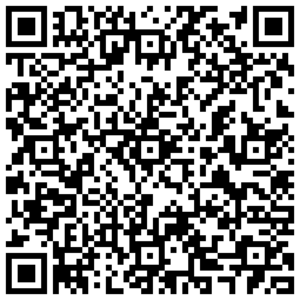
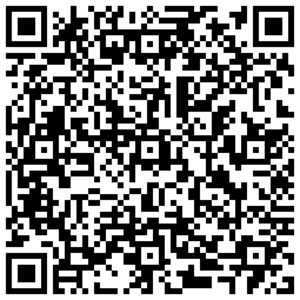
Update free configs - 2025-03-26

diff --git a/README.md b/README.md
@@ -1,6 +1,6 @@
 # 文档下方有很多可直接导入使用的高速节点/二维码订阅
 
-<p align='center'><strong>2025-03-25 12点准时更新每日免费节点，更多机场VPN优惠信息：<a href="https://vpn.tg10000.com">vpn.tg10000.com</a></strong></p>
+<p align='center'><strong>2025-03-26 12点准时更新每日免费节点，更多机场VPN优惠信息：<a href="https://vpn.tg10000.com">vpn.tg10000.com</a></strong></p>
 <p align='center'><strong>Telegram群:<a href="https://t.me/freevpn">@freevpntg</a></strong></p>
 
 
@@ -60,120 +60,120 @@
 
 <p align='center'><img src='img/1.png' alt='QR Code' width='300'></p>
 
-<p align='center'><code>ss://Y2hhY2hhMjAtaWV0Zi1wb2x5MTMwNTplZmY4NTcxYy05ZjJhLTQ4NjEtOWZlMS0yNWJkZDYxYjM0OTc=@free.2weradf.xyz:36141#0%7C%F0%9F%87%AD%F0%9F%87%B0%20%E9%A6%99%E6%B8%AF%2001%20%7C%201x%20HK</code></p>
+<p align='center'><code>ss://Y2hhY2hhMjAtaWV0Zi1wb2x5MTMwNTo3ZmFjMjE5YS1mZDNiLTRhMDgtYWFlMC04NjFiMDQyOTJhZjM=@free.2apzhfa.xyz:31141#0%7C%F0%9F%87%AD%F0%9F%87%B0%E9%A6%99%E6%B8%AF%2001%20%7C%201x%20HK</code></p>
 
 <p align='center'><img src='img/2.png' alt='QR Code' width='300'></p>
 
-<p align='center'><code>ss://Y2hhY2hhMjAtaWV0Zi1wb2x5MTMwNTplZmY4NTcxYy05ZjJhLTQ4NjEtOWZlMS0yNWJkZDYxYjM0OTc=@free.2weradf.xyz:36143#0%7C%F0%9F%87%AD%F0%9F%87%B0%20%E9%A6%99%E6%B8%AF%2002%20%7C%201x%20HK</code></p>
+<p align='center'><code>ss://Y2hhY2hhMjAtaWV0Zi1wb2x5MTMwNTo3ZmFjMjE5YS1mZDNiLTRhMDgtYWFlMC04NjFiMDQyOTJhZjM=@free.2apzhfa.xyz:31143#0%7C%F0%9F%87%AD%F0%9F%87%B0%E9%A6%99%E6%B8%AF%2002%20%7C%201x%20HK</code></p>
 
 <p align='center'><img src='img/3.png' alt='QR Code' width='300'></p>
 
-<p align='center'><code>ss://Y2hhY2hhMjAtaWV0Zi1wb2x5MTMwNTplZmY4NTcxYy05ZjJhLTQ4NjEtOWZlMS0yNWJkZDYxYjM0OTc=@free.2weradf.xyz:36145#0%7C%F0%9F%87%AD%F0%9F%87%B0%20%E9%A6%99%E6%B8%AF%E4%BD%8F%E5%AE%85IP%2003%20%7C%201x%20HK</code></p>
+<p align='center'><code>ss://Y2hhY2hhMjAtaWV0Zi1wb2x5MTMwNTo3ZmFjMjE5YS1mZDNiLTRhMDgtYWFlMC04NjFiMDQyOTJhZjM=@free.2apzhfa.xyz:31145#0%7C%F0%9F%87%AD%F0%9F%87%B0%E9%A6%99%E6%B8%AF%E5%AE%B6%E5%AE%BD%2003%20%7C%201x%20HK</code></p>
 
 <p align='center'><img src='img/4.png' alt='QR Code' width='300'></p>
 
-<p align='center'><code>ss://Y2hhY2hhMjAtaWV0Zi1wb2x5MTMwNTplZmY4NTcxYy05ZjJhLTQ4NjEtOWZlMS0yNWJkZDYxYjM0OTc=@free.2weradf.xyz:36241#0%7C%F0%9F%87%B9%F0%9F%87%BC%20%E5%8F%B0%E6%B9%BE%2001%20%7C%201x%20TW</code></p>
+<p align='center'><code>ss://Y2hhY2hhMjAtaWV0Zi1wb2x5MTMwNTo3ZmFjMjE5YS1mZDNiLTRhMDgtYWFlMC04NjFiMDQyOTJhZjM=@free.2apzhfa.xyz:31241#0%7C%F0%9F%87%B9%F0%9F%87%BC%E5%8F%B0%E6%B9%BE%2001%20%7C%201x%20TW</code></p>
 
 <p align='center'><img src='img/5.png' alt='QR Code' width='300'></p>
 
-<p align='center'><code>ss://Y2hhY2hhMjAtaWV0Zi1wb2x5MTMwNTplZmY4NTcxYy05ZjJhLTQ4NjEtOWZlMS0yNWJkZDYxYjM0OTc=@free.2weradf.xyz:36243#0%7C%F0%9F%87%B9%F0%9F%87%BC%20%E5%8F%B0%E6%B9%BE%2002%20%7C%201x%20TW</code></p>
+<p align='center'><code>ss://Y2hhY2hhMjAtaWV0Zi1wb2x5MTMwNTo3ZmFjMjE5YS1mZDNiLTRhMDgtYWFlMC04NjFiMDQyOTJhZjM=@free.2apzhfa.xyz:31243#0%7C%F0%9F%87%B9%F0%9F%87%BC%E5%8F%B0%E6%B9%BE%2002%20%7C%201x%20TW</code></p>
 
 <p align='center'><img src='img/6.png' alt='QR Code' width='300'></p>
 
-<p align='center'><code>ss://Y2hhY2hhMjAtaWV0Zi1wb2x5MTMwNTplZmY4NTcxYy05ZjJhLTQ4NjEtOWZlMS0yNWJkZDYxYjM0OTc=@free.2weradf.xyz:36245#0%7C%F0%9F%87%B9%F0%9F%87%BC%20%E5%8F%B0%E6%B9%BE%2003%20%7C%201x%20TW</code></p>
+<p align='center'><code>ss://Y2hhY2hhMjAtaWV0Zi1wb2x5MTMwNTo3ZmFjMjE5YS1mZDNiLTRhMDgtYWFlMC04NjFiMDQyOTJhZjM=@free.2apzhfa.xyz:31245#0%7C%F0%9F%87%B9%F0%9F%87%BC%E5%8F%B0%E6%B9%BE%2003%20%7C%201x%20TW</code></p>
 
 <p align='center'><img src='img/7.png' alt='QR Code' width='300'></p>
 
-<p align='center'><code>ss://Y2hhY2hhMjAtaWV0Zi1wb2x5MTMwNTplZmY4NTcxYy05ZjJhLTQ4NjEtOWZlMS0yNWJkZDYxYjM0OTc=@free.2weradf.xyz:36111#0%7C%F0%9F%87%AF%F0%9F%87%B5%20%E6%97%A5%E6%9C%AC%2001%20%7C%201x%20JP</code></p>
+<p align='center'><code>ss://Y2hhY2hhMjAtaWV0Zi1wb2x5MTMwNTo3ZmFjMjE5YS1mZDNiLTRhMDgtYWFlMC04NjFiMDQyOTJhZjM=@free.2apzhfa.xyz:31111#0%7C%F0%9F%87%AF%F0%9F%87%B5%E6%97%A5%E6%9C%AC%2001%20%7C%201x%20JP</code></p>
 
 <p align='center'><img src='img/8.png' alt='QR Code' width='300'></p>
 
-<p align='center'><code>ss://Y2hhY2hhMjAtaWV0Zi1wb2x5MTMwNTplZmY4NTcxYy05ZjJhLTQ4NjEtOWZlMS0yNWJkZDYxYjM0OTc=@free.2weradf.xyz:36113#0%7C%F0%9F%87%AF%F0%9F%87%B5%20%E6%97%A5%E6%9C%AC%2002%20%7C%201x%20JP</code></p>
+<p align='center'><code>ss://Y2hhY2hhMjAtaWV0Zi1wb2x5MTMwNTo3ZmFjMjE5YS1mZDNiLTRhMDgtYWFlMC04NjFiMDQyOTJhZjM=@free.2apzhfa.xyz:31113#0%7C%F0%9F%87%AF%F0%9F%87%B5%E6%97%A5%E6%9C%AC%2002%20%7C%201x%20JP</code></p>
 
 <p align='center'><img src='img/9.png' alt='QR Code' width='300'></p>
 
-<p align='center'><code>ss://Y2hhY2hhMjAtaWV0Zi1wb2x5MTMwNTplZmY4NTcxYy05ZjJhLTQ4NjEtOWZlMS0yNWJkZDYxYjM0OTc=@free.2weradf.xyz:36115#0%7C%F0%9F%87%AF%F0%9F%87%B5%20%E6%97%A5%E6%9C%AC%2003%20%7C%201x%20JP</code></p>
+<p align='center'><code>ss://Y2hhY2hhMjAtaWV0Zi1wb2x5MTMwNTo3ZmFjMjE5YS1mZDNiLTRhMDgtYWFlMC04NjFiMDQyOTJhZjM=@free.2apzhfa.xyz:31115#0%7C%F0%9F%87%AF%F0%9F%87%B5%E6%97%A5%E6%9C%AC%2003%20%7C%201x%20JP</code></p>
 
 <p align='center'><img src='img/10.png' alt='QR Code' width='300'></p>
 
-<p align='center'><code>ss://Y2hhY2hhMjAtaWV0Zi1wb2x5MTMwNTplZmY4NTcxYy05ZjJhLTQ4NjEtOWZlMS0yNWJkZDYxYjM0OTc=@free.2weradf.xyz:36171#0%7C%F0%9F%87%B8%F0%9F%87%AC%20%E6%96%B0%E5%8A%A0%E5%9D%A1%2001%20%7C%201x%20SG</code></p>
+<p align='center'><code>ss://Y2hhY2hhMjAtaWV0Zi1wb2x5MTMwNTo3ZmFjMjE5YS1mZDNiLTRhMDgtYWFlMC04NjFiMDQyOTJhZjM=@free.2apzhfa.xyz:31171#0%7C%F0%9F%87%B8%F0%9F%87%AC%E6%96%B0%E5%8A%A0%E5%9D%A1%2001%20%7C%201x%20SG</code></p>
 
 <p align='center'><img src='img/11.png' alt='QR Code' width='300'></p>
 
-<p align='center'><code>ss://Y2hhY2hhMjAtaWV0Zi1wb2x5MTMwNTplZmY4NTcxYy05ZjJhLTQ4NjEtOWZlMS0yNWJkZDYxYjM0OTc=@free.2weradf.xyz:36173#0%7C%F0%9F%87%B8%F0%9F%87%AC%20%E6%96%B0%E5%8A%A0%E5%9D%A1%2002%20%7C%201x%20SG</code></p>
+<p align='center'><code>ss://Y2hhY2hhMjAtaWV0Zi1wb2x5MTMwNTo3ZmFjMjE5YS1mZDNiLTRhMDgtYWFlMC04NjFiMDQyOTJhZjM=@free.2apzhfa.xyz:31173#0%7C%F0%9F%87%B8%F0%9F%87%AC%E6%96%B0%E5%8A%A0%E5%9D%A1%2002%20%7C%201x%20SG</code></p>
 
 <p align='center'><img src='img/12.png' alt='QR Code' width='300'></p>
 
-<p align='center'><code>ss://Y2hhY2hhMjAtaWV0Zi1wb2x5MTMwNTplZmY4NTcxYy05ZjJhLTQ4NjEtOWZlMS0yNWJkZDYxYjM0OTc=@free.2weradf.xyz:36175#0%7C%F0%9F%87%B8%F0%9F%87%AC%20%E6%96%B0%E5%8A%A0%E5%9D%A1%2003%20%7C%201x%20SG</code></p>
+<p align='center'><code>ss://Y2hhY2hhMjAtaWV0Zi1wb2x5MTMwNTo3ZmFjMjE5YS1mZDNiLTRhMDgtYWFlMC04NjFiMDQyOTJhZjM=@free.2apzhfa.xyz:31175#0%7C%F0%9F%87%B8%F0%9F%87%AC%E6%96%B0%E5%8A%A0%E5%9D%A1%2003%20%7C%201x%20SG</code></p>
 
 <p align='center'><img src='img/13.png' alt='QR Code' width='300'></p>
 
-<p align='center'><code>ss://Y2hhY2hhMjAtaWV0Zi1wb2x5MTMwNTplZmY4NTcxYy05ZjJhLTQ4NjEtOWZlMS0yNWJkZDYxYjM0OTc=@free.2weradf.xyz:36311#0%7C%F0%9F%87%B0%F0%9F%87%B7%20%E9%9F%A9%E5%9B%BD%2001%20%7C%201x%20KR</code></p>
+<p align='center'><code>ss://Y2hhY2hhMjAtaWV0Zi1wb2x5MTMwNTo3ZmFjMjE5YS1mZDNiLTRhMDgtYWFlMC04NjFiMDQyOTJhZjM=@free.2apzhfa.xyz:31311#0%7C%F0%9F%87%B0%F0%9F%87%B7%E9%9F%A9%E5%9B%BD%2001%20%7C%201x%20KR</code></p>
 
 <p align='center'><img src='img/14.png' alt='QR Code' width='300'></p>
 
-<p align='center'><code>ss://Y2hhY2hhMjAtaWV0Zi1wb2x5MTMwNTplZmY4NTcxYy05ZjJhLTQ4NjEtOWZlMS0yNWJkZDYxYjM0OTc=@free.2weradf.xyz:36313#0%7C%F0%9F%87%B0%F0%9F%87%B7%20%E9%9F%A9%E5%9B%BD%2002%20%7C%201x%20KR</code></p>
+<p align='center'><code>ss://Y2hhY2hhMjAtaWV0Zi1wb2x5MTMwNTo3ZmFjMjE5YS1mZDNiLTRhMDgtYWFlMC04NjFiMDQyOTJhZjM=@free.2apzhfa.xyz:31313#0%7C%F0%9F%87%B0%F0%9F%87%B7%E9%9F%A9%E5%9B%BD%2002%20%7C%201x%20KR</code></p>
 
 <p align='center'><img src='img/15.png' alt='QR Code' width='300'></p>
 
-<p align='center'><code>ss://Y2hhY2hhMjAtaWV0Zi1wb2x5MTMwNTplZmY4NTcxYy05ZjJhLTQ4NjEtOWZlMS0yNWJkZDYxYjM0OTc=@free.2weradf.xyz:36341#0%7C%F0%9F%87%B5%F0%9F%87%AD%20%E8%8F%B2%E5%BE%8B%E5%AE%BE%2001%20%7C%201x%20PH</code></p>
+<p align='center'><code>ss://Y2hhY2hhMjAtaWV0Zi1wb2x5MTMwNTo3ZmFjMjE5YS1mZDNiLTRhMDgtYWFlMC04NjFiMDQyOTJhZjM=@free.2apzhfa.xyz:31341#0%7C%F0%9F%87%B5%F0%9F%87%AD%E8%8F%B2%E5%BE%8B%E5%AE%BE%2001%20%7C%201x%20PH</code></p>
 
 <p align='center'><img src='img/16.png' alt='QR Code' width='300'></p>
 
-<p align='center'><code>ss://Y2hhY2hhMjAtaWV0Zi1wb2x5MTMwNTplZmY4NTcxYy05ZjJhLTQ4NjEtOWZlMS0yNWJkZDYxYjM0OTc=@free.2weradf.xyz:36211#0%7C%F0%9F%87%BA%F0%9F%87%B8%20%E7%BE%8E%E5%9B%BD%2001%20%7C%201x%20US%20Los%20Angeles</code></p>
+<p align='center'><code>ss://Y2hhY2hhMjAtaWV0Zi1wb2x5MTMwNTo3ZmFjMjE5YS1mZDNiLTRhMDgtYWFlMC04NjFiMDQyOTJhZjM=@free.2apzhfa.xyz:31211#0%7C%F0%9F%87%BA%F0%9F%87%B8%E7%BE%8E%E5%9B%BD%2001%20%7C%201x%20US%20Los%20Angeles</code></p>
 
 <p align='center'><img src='img/17.png' alt='QR Code' width='300'></p>
 
-<p align='center'><code>ss://Y2hhY2hhMjAtaWV0Zi1wb2x5MTMwNTplZmY4NTcxYy05ZjJhLTQ4NjEtOWZlMS0yNWJkZDYxYjM0OTc=@free.2weradf.xyz:36213#0%7C%F0%9F%87%BA%F0%9F%87%B8%20%E7%BE%8E%E5%9B%BD%E4%BD%8F%E5%AE%85IP%2002%20%7C%201x%20US%20Los%20Angel...</code></p>
+<p align='center'><code>ss://Y2hhY2hhMjAtaWV0Zi1wb2x5MTMwNTo3ZmFjMjE5YS1mZDNiLTRhMDgtYWFlMC04NjFiMDQyOTJhZjM=@free.2apzhfa.xyz:31213#0%7C%F0%9F%87%BA%F0%9F%87%B8%E7%BE%8E%E5%9B%BD%E5%AE%B6%E5%AE%BD%2002%20%7C%201x%20US%20Los%20Angeles</code></p>
 
 <p align='center'><img src='img/18.png' alt='QR Code' width='300'></p>
 
-<p align='center'><code>ss://Y2hhY2hhMjAtaWV0Zi1wb2x5MTMwNTplZmY4NTcxYy05ZjJhLTQ4NjEtOWZlMS0yNWJkZDYxYjM0OTc=@free.2weradf.xyz:36215#0%7C%F0%9F%87%BA%F0%9F%87%B8%20%E7%BE%8E%E5%9B%BD%2003%20%7C%201x%20US%20Washington</code></p>
+<p align='center'><code>ss://Y2hhY2hhMjAtaWV0Zi1wb2x5MTMwNTo3ZmFjMjE5YS1mZDNiLTRhMDgtYWFlMC04NjFiMDQyOTJhZjM=@free.2apzhfa.xyz:31215#0%7C%F0%9F%87%BA%F0%9F%87%B8%E7%BE%8E%E5%9B%BD%2003%20%7C%201x%20US%20Washington</code></p>
 
 <p align='center'><img src='img/19.png' alt='QR Code' width='300'></p>
 
-<p align='center'><code>ss://Y2hhY2hhMjAtaWV0Zi1wb2x5MTMwNTplZmY4NTcxYy05ZjJhLTQ4NjEtOWZlMS0yNWJkZDYxYjM0OTc=@free.2weradf.xyz:36271#0%7C%F0%9F%87%AC%F0%9F%87%A7%20%E8%8B%B1%E5%9B%BD%E4%BD%8F%E5%AE%85IP%2001%20%7C%201x%20UK</code></p>
+<p align='center'><code>ss://Y2hhY2hhMjAtaWV0Zi1wb2x5MTMwNTo3ZmFjMjE5YS1mZDNiLTRhMDgtYWFlMC04NjFiMDQyOTJhZjM=@free.2apzhfa.xyz:31271#0%7C%F0%9F%87%AC%F0%9F%87%A7%E8%8B%B1%E5%9B%BD%E5%AE%B6%E5%AE%BD%2001%20%7C%201x%20UK</code></p>
 
 <p align='center'><img src='img/20.png' alt='QR Code' width='300'></p>
 
-<p align='center'><code>ss://Y2hhY2hhMjAtaWV0Zi1wb2x5MTMwNTplZmY4NTcxYy05ZjJhLTQ4NjEtOWZlMS0yNWJkZDYxYjM0OTc=@free.2weradf.xyz:36721#0%7C%F0%9F%87%B2%F0%9F%87%BE%E9%A9%AC%E6%9D%A5%E8%A5%BF%E4%BA%9A%2001%20%7C%201x%20MY</code></p>
+<p align='center'><code>ss://Y2hhY2hhMjAtaWV0Zi1wb2x5MTMwNTo3ZmFjMjE5YS1mZDNiLTRhMDgtYWFlMC04NjFiMDQyOTJhZjM=@free.2apzhfa.xyz:31741#0%7C%F0%9F%87%B9%F0%9F%87%AD%E6%B3%B0%E5%9B%BD01%20%20%7C%201x%20TH</code></p>
 
 <p align='center'><img src='img/21.png' alt='QR Code' width='300'></p>
 
-<p align='center'><code>ss://Y2hhY2hhMjAtaWV0Zi1wb2x5MTMwNTplZmY4NTcxYy05ZjJhLTQ4NjEtOWZlMS0yNWJkZDYxYjM0OTc=@free.2weradf.xyz:36741#0%7C%F0%9F%87%AE%F0%9F%87%B3%E8%A5%BF%E7%8F%AD%E7%89%99%2001%20%7C%201x%20ES</code></p>
+<p align='center'><code>ss://Y2hhY2hhMjAtaWV0Zi1wb2x5MTMwNTo3ZmFjMjE5YS1mZDNiLTRhMDgtYWFlMC04NjFiMDQyOTJhZjM=@free.2apzhfa.xyz:31721#0%7C%F0%9F%87%B2%F0%9F%87%BE%E9%A9%AC%E6%9D%A5%E8%A5%BF%E4%BA%9A01%20%7C%201x%20MY</code></p>
 
 <p align='center'><img src='img/22.png' alt='QR Code' width='300'></p>
 
-<p align='center'><code>ss://Y2hhY2hhMjAtaWV0Zi1wb2x5MTMwNTplZmY4NTcxYy05ZjJhLTQ4NjEtOWZlMS0yNWJkZDYxYjM0OTc=@free.2weradf.xyz:36731#0%7C%F0%9F%87%B9%F0%9F%87%AD%E6%B3%B0%E5%9B%BD%2001%20%7C%201x%20TH</code></p>
+<p align='center'><code>ss://Y2hhY2hhMjAtaWV0Zi1wb2x5MTMwNTo3ZmFjMjE5YS1mZDNiLTRhMDgtYWFlMC04NjFiMDQyOTJhZjM=@free.2apzhfa.xyz:31371#0%7C%F0%9F%87%AE%F0%9F%87%B3%E5%8D%B0%E5%BA%A6%2001%20%7C%201x%20IN</code></p>
 
 <p align='center'><img src='img/23.png' alt='QR Code' width='300'></p>
 
-<p align='center'><code>ss://Y2hhY2hhMjAtaWV0Zi1wb2x5MTMwNTplZmY4NTcxYy05ZjJhLTQ4NjEtOWZlMS0yNWJkZDYxYjM0OTc=@free.2weradf.xyz:36371#0%7C%F0%9F%87%AE%F0%9F%87%B3%20%E5%8D%B0%E5%BA%A6%2001%20%7C%201x%20IN</code></p>
+<p align='center'><code>ss://Y2hhY2hhMjAtaWV0Zi1wb2x5MTMwNTo3ZmFjMjE5YS1mZDNiLTRhMDgtYWFlMC04NjFiMDQyOTJhZjM=@free.2apzhfa.xyz:31411#0%7C%F0%9F%87%A6%F0%9F%87%BA%E6%BE%B3%E5%A4%A7%E5%88%A9%E4%BA%9A%2001%20%7C%201x%20AU</code></p>
 
 <p align='center'><img src='img/24.png' alt='QR Code' width='300'></p>
 
-<p align='center'><code>ss://Y2hhY2hhMjAtaWV0Zi1wb2x5MTMwNTplZmY4NTcxYy05ZjJhLTQ4NjEtOWZlMS0yNWJkZDYxYjM0OTc=@free.2weradf.xyz:36411#0%7C%F0%9F%87%A6%F0%9F%87%BA%20%E6%BE%B3%E5%A4%A7%E5%88%A9%E4%BA%9A%2001%20%7C%201x%20AU</code></p>
+<p align='center'><code>ss://Y2hhY2hhMjAtaWV0Zi1wb2x5MTMwNTo3ZmFjMjE5YS1mZDNiLTRhMDgtYWFlMC04NjFiMDQyOTJhZjM=@free.2apzhfa.xyz:31441#0%7C%F0%9F%87%A8%F0%9F%87%A6%E5%8A%A0%E6%8B%BF%E5%A4%A7%2001%20%7C%201x%20CA</code></p>
 
 <p align='center'><img src='img/25.png' alt='QR Code' width='300'></p>
 
-<p align='center'><code>ss://Y2hhY2hhMjAtaWV0Zi1wb2x5MTMwNTplZmY4NTcxYy05ZjJhLTQ4NjEtOWZlMS0yNWJkZDYxYjM0OTc=@free.2weradf.xyz:36441#0%7C%F0%9F%87%A8%F0%9F%87%A6%20%E5%8A%A0%E6%8B%BF%E5%A4%A7%2001%20%7C%201x%20CA</code></p>
+<p align='center'><code>ss://Y2hhY2hhMjAtaWV0Zi1wb2x5MTMwNTo3ZmFjMjE5YS1mZDNiLTRhMDgtYWFlMC04NjFiMDQyOTJhZjM=@free.2apzhfa.xyz:31471#0%7C%F0%9F%87%A9%F0%9F%87%AA%E5%BE%B7%E5%9B%BD%2001%20%7C%201x%20DE</code></p>
 
 <p align='center'><img src='img/26.png' alt='QR Code' width='300'></p>
 
-<p align='center'><code>ss://Y2hhY2hhMjAtaWV0Zi1wb2x5MTMwNTplZmY4NTcxYy05ZjJhLTQ4NjEtOWZlMS0yNWJkZDYxYjM0OTc=@free.2weradf.xyz:36471#0%7C%F0%9F%87%A9%F0%9F%87%AA%20%E5%BE%B7%E5%9B%BD%2001%20%7C%201x%20DE</code></p>
+<p align='center'><code>ss://Y2hhY2hhMjAtaWV0Zi1wb2x5MTMwNTo3ZmFjMjE5YS1mZDNiLTRhMDgtYWFlMC04NjFiMDQyOTJhZjM=@free.2apzhfa.xyz:31511#0%7C%F0%9F%87%B7%F0%9F%87%BA%E4%BF%84%E7%BD%97%E6%96%AF%2001%20%7C%201x%20RU</code></p>
 
 <p align='center'><img src='img/27.png' alt='QR Code' width='300'></p>
 
-<p align='center'><code>ss://Y2hhY2hhMjAtaWV0Zi1wb2x5MTMwNTplZmY4NTcxYy05ZjJhLTQ4NjEtOWZlMS0yNWJkZDYxYjM0OTc=@free.2weradf.xyz:36511#0%7C%F0%9F%87%B7%F0%9F%87%BA%20%E4%BF%84%E7%BD%97%E6%96%AF%2001%20%7C%201x%20RU</code></p>
+<p align='center'><code>ss://Y2hhY2hhMjAtaWV0Zi1wb2x5MTMwNTo3ZmFjMjE5YS1mZDNiLTRhMDgtYWFlMC04NjFiMDQyOTJhZjM=@free.2apzhfa.xyz:31571#0%7C%F0%9F%87%B9%F0%9F%87%B7%E5%9C%9F%E8%80%B3%E5%85%B6%2001%20%7C%201x%20TR</code></p>
 
 <p align='center'><img src='img/28.png' alt='QR Code' width='300'></p>
 
-<p align='center'><code>ss://Y2hhY2hhMjAtaWV0Zi1wb2x5MTMwNTplZmY4NTcxYy05ZjJhLTQ4NjEtOWZlMS0yNWJkZDYxYjM0OTc=@free.2weradf.xyz:36571#0%7C%F0%9F%87%B9%F0%9F%87%B7%20%E5%9C%9F%E8%80%B3%E5%85%B6%2001%20%7C%201x%20TR</code></p>
+<p align='center'><code>ss://Y2hhY2hhMjAtaWV0Zi1wb2x5MTMwNTo3ZmFjMjE5YS1mZDNiLTRhMDgtYWFlMC04NjFiMDQyOTJhZjM=@free.2apzhfa.xyz:31611#0%7C%F0%9F%87%BA%F0%9F%87%A6%E4%B9%8C%E5%85%8B%E5%85%B0%2001%20%7C%201x%20UA</code></p>
 
 <p align='center'><img src='img/29.png' alt='QR Code' width='300'></p>
 
-<p align='center'><code>ss://Y2hhY2hhMjAtaWV0Zi1wb2x5MTMwNTplZmY4NTcxYy05ZjJhLTQ4NjEtOWZlMS0yNWJkZDYxYjM0OTc=@free.2weradf.xyz:36611#0%7C%F0%9F%87%BA%F0%9F%87%A6%20%E4%B9%8C%E5%85%8B%E5%85%B0%2001%20%7C%201x%20UA</code></p>
+<p align='center'><code>ss://Y2hhY2hhMjAtaWV0Zi1wb2x5MTMwNTo3ZmFjMjE5YS1mZDNiLTRhMDgtYWFlMC04NjFiMDQyOTJhZjM=@free.2apzhfa.xyz:31641#0%7C%F0%9F%87%BB%F0%9F%87%B3%E8%B6%8A%E5%8D%97%2001%20%7C%201x%20VN</code></p>
 
 <p align='center'><img src='img/30.png' alt='QR Code' width='300'></p>
 
-<p align='center'><code>ss://Y2hhY2hhMjAtaWV0Zi1wb2x5MTMwNTplZmY4NTcxYy05ZjJhLTQ4NjEtOWZlMS0yNWJkZDYxYjM0OTc=@free.2weradf.xyz:36641#0%7C%F0%9F%87%BB%F0%9F%87%B3%20%E8%B6%8A%E5%8D%97%2001%20%7C%201x%20VN</code></p>
+<p align='center'><code>ss://Y2hhY2hhMjAtaWV0Zi1wb2x5MTMwNTo3ZmFjMjE5YS1mZDNiLTRhMDgtYWFlMC04NjFiMDQyOTJhZjM=@free.2apzhfa.xyz:31671#0%7C%F0%9F%87%A7%F0%9F%87%B7%E5%B7%B4%E8%A5%BF%2001%20%7C%201x%20BR</code></p>
